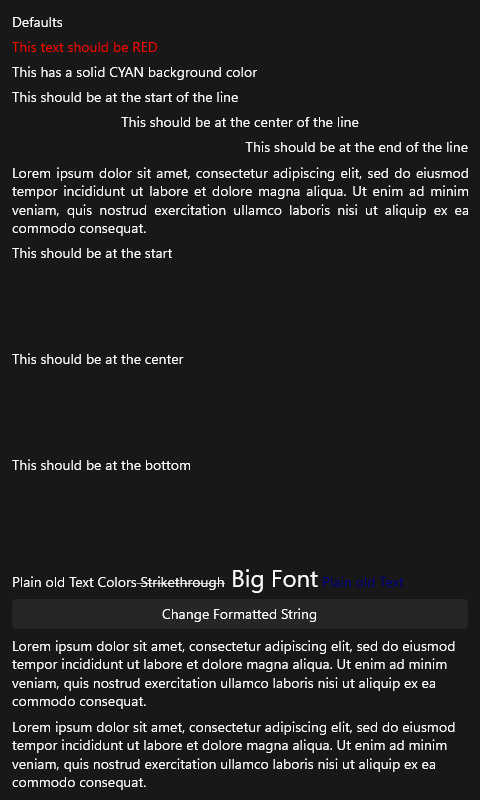
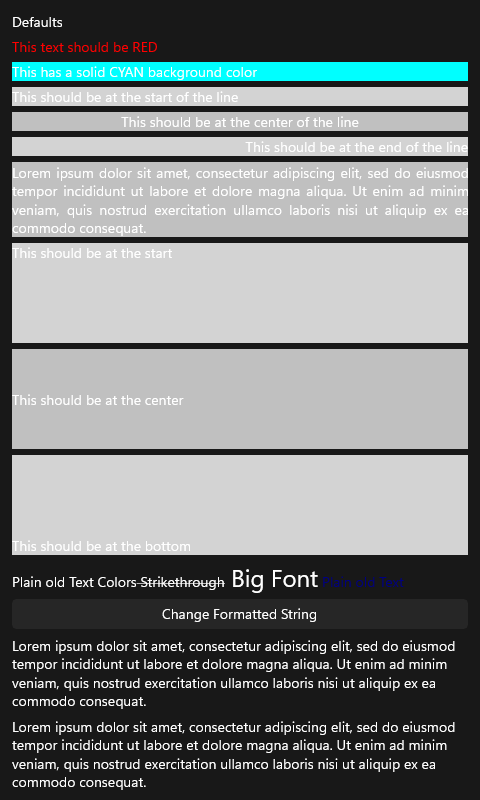
docs(parity): label fix landed (42->95 cpp, 39->92 xaml); TODO updated

diff --git a/port/cpp/docs/comparison/WINDOWS_PARITY_TODO.md b/port/cpp/docs/comparison/WINDOWS_PARITY_TODO.md
@@ -10,12 +10,12 @@ Update as items land. `pixel_score.py` re-scores; `capture_windows.py --mode bot
   catch. 0% → 97%. (`bab819f1cb`)
 - **image zero-height** — WinUI deferred-decode chicken-and-egg → natural-size measure off the
   BitmapImage + bounded post-Loaded settle re-layout. FileSource + gif render. (`4091676d8d`)
+- **label BackgroundColor + VerticalTextAlignment** — wrap the TextBlock in a Border container (the
+  WrapperView stand-in); update_background paints it, and the fixed-height slot makes vertical
+  alignment work. cpp 42%→95%, xaml 39%→92%. (`8b63845b4e`) — REMAINING: FormattedString per-run
+  background highlight (the "Colors" cyan box) needs a TextHighlighter; xaml renders spans blue.
 
 ## High value (both cpp+xaml, confirmed real)
-1. **label** (42%) — `BackgroundColor` not painted behind text (TextBlock has no Background; MAUI wraps
-   or paints a panel); `FormattedString` span backgrounds missing (the "Colors" cyan highlight);
-   VerticalTextAlignment fixed-height gray boxes collapse to one text line. Root: label handler +
-   view-background seam.
 2. **flex_layout** (19%) — FlexLayout bands don't fill/position: HEADER/CONTENT labels overlap top-left,
    the left/right colored side strips and the FOOTER band are missing, CONTENT gray fill missing. Root:
    flex layout arrange on the windows Canvas (nested-layout measure/arrange).
